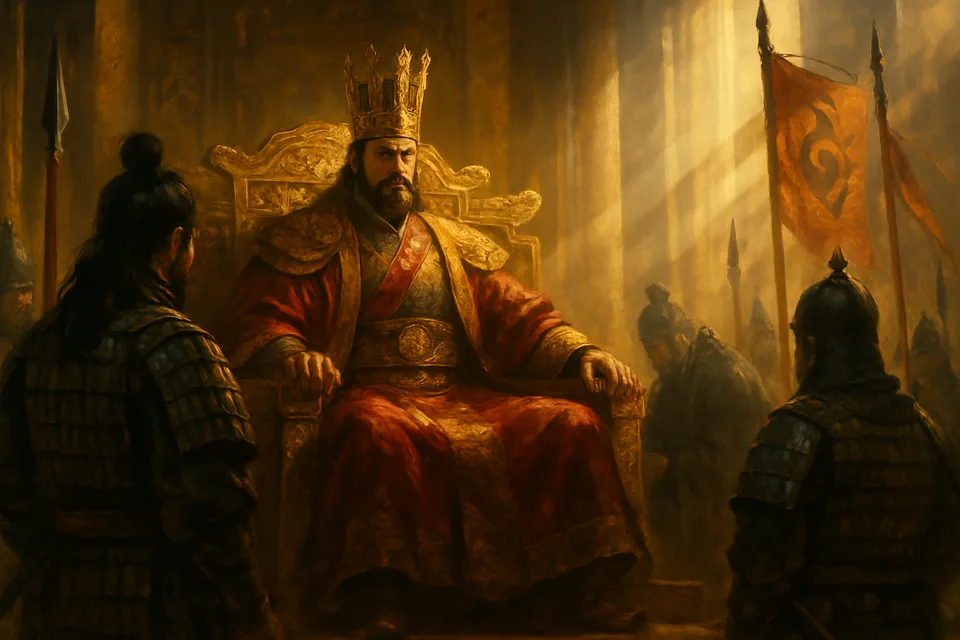
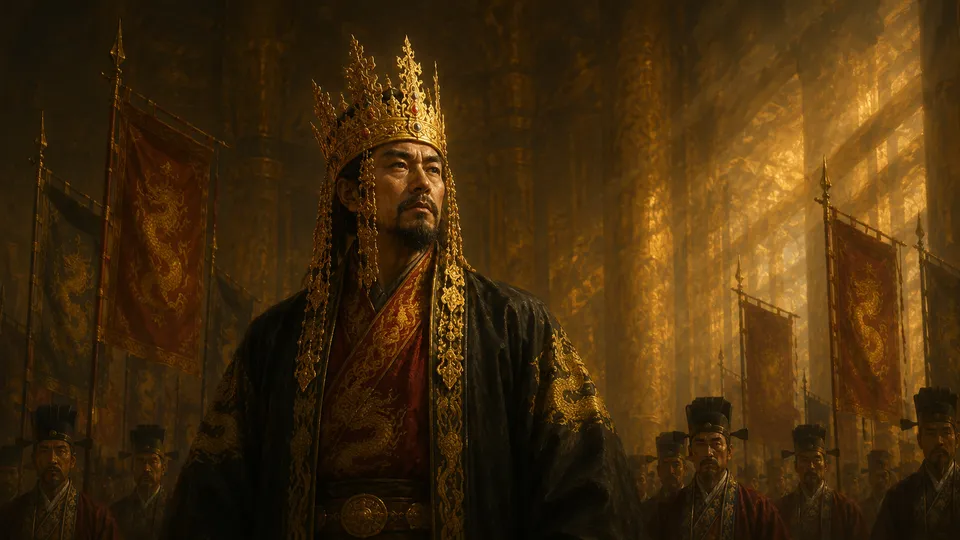
art: w_intro 이벤트 이미지 webp 교체 반영 + 버전 2.44.2 (직전 커밋 누락분)
https://claude.ai/code/session_01KjNXsh88Q6DKRsK7WcezAz

diff --git a/index.html b/index.html
@@ -3408,7 +3408,7 @@ function beginGame(){player=chosenF;turn=1;selected=null;turnEvents=[];firedEven
 }
 
 /* ============ 버전 / 업데이트 알림 ============ */
-const GAME_VERSION='2.44.1';   // 배포할 때마다 version.json과 함께 올림
+const GAME_VERSION='2.44.2';   // 배포할 때마다 version.json과 함께 올림
 const SAVE_VER=1;             // 저장 데이터 구조 버전(구조 바꾸면 +1)
 function showVersion(){const t=$('vertag');if(t)t.textContent='v'+GAME_VERSION;const sv=$('splashver');if(sv)sv.textContent='v'+GAME_VERSION;}
 async function checkVersion(){